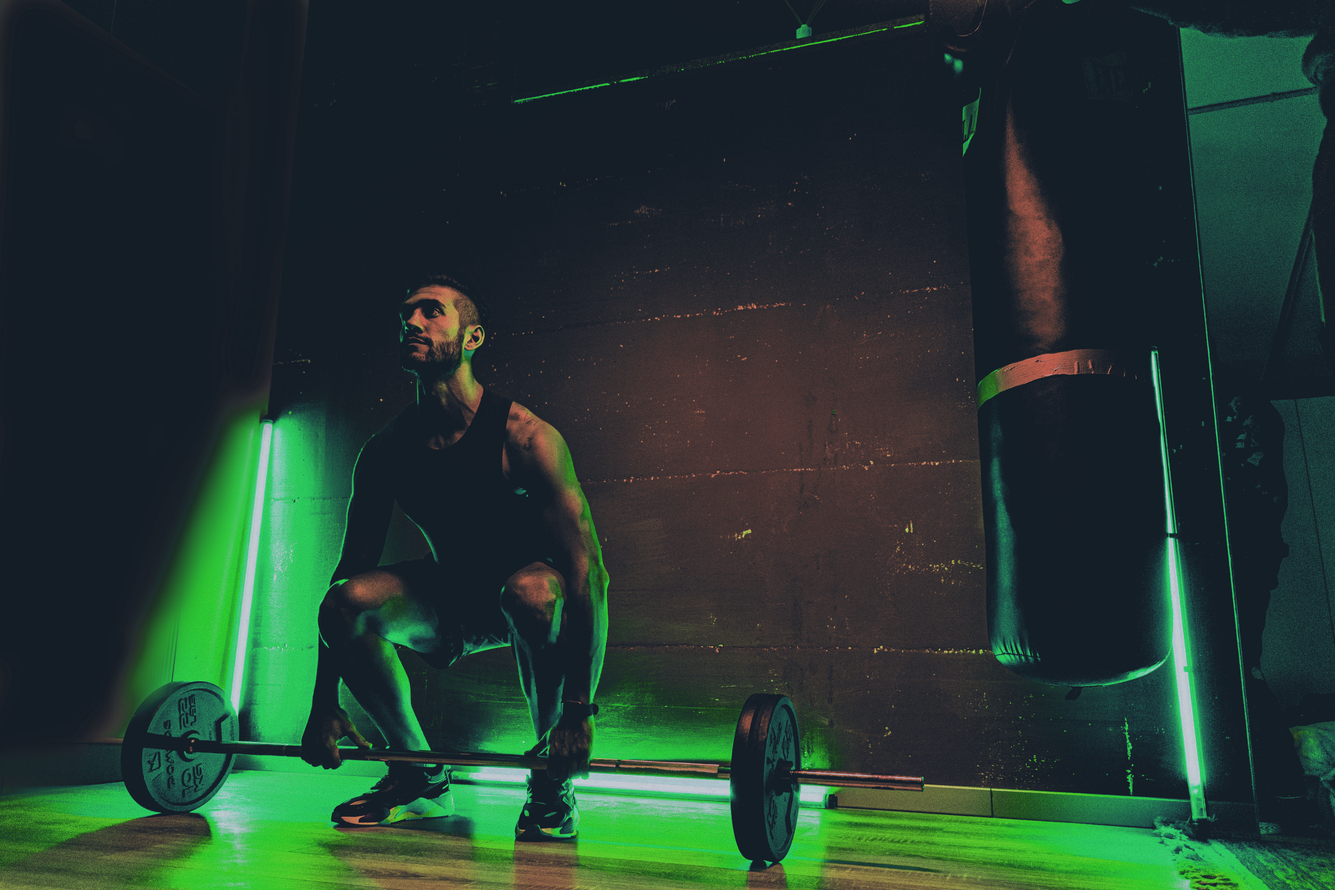
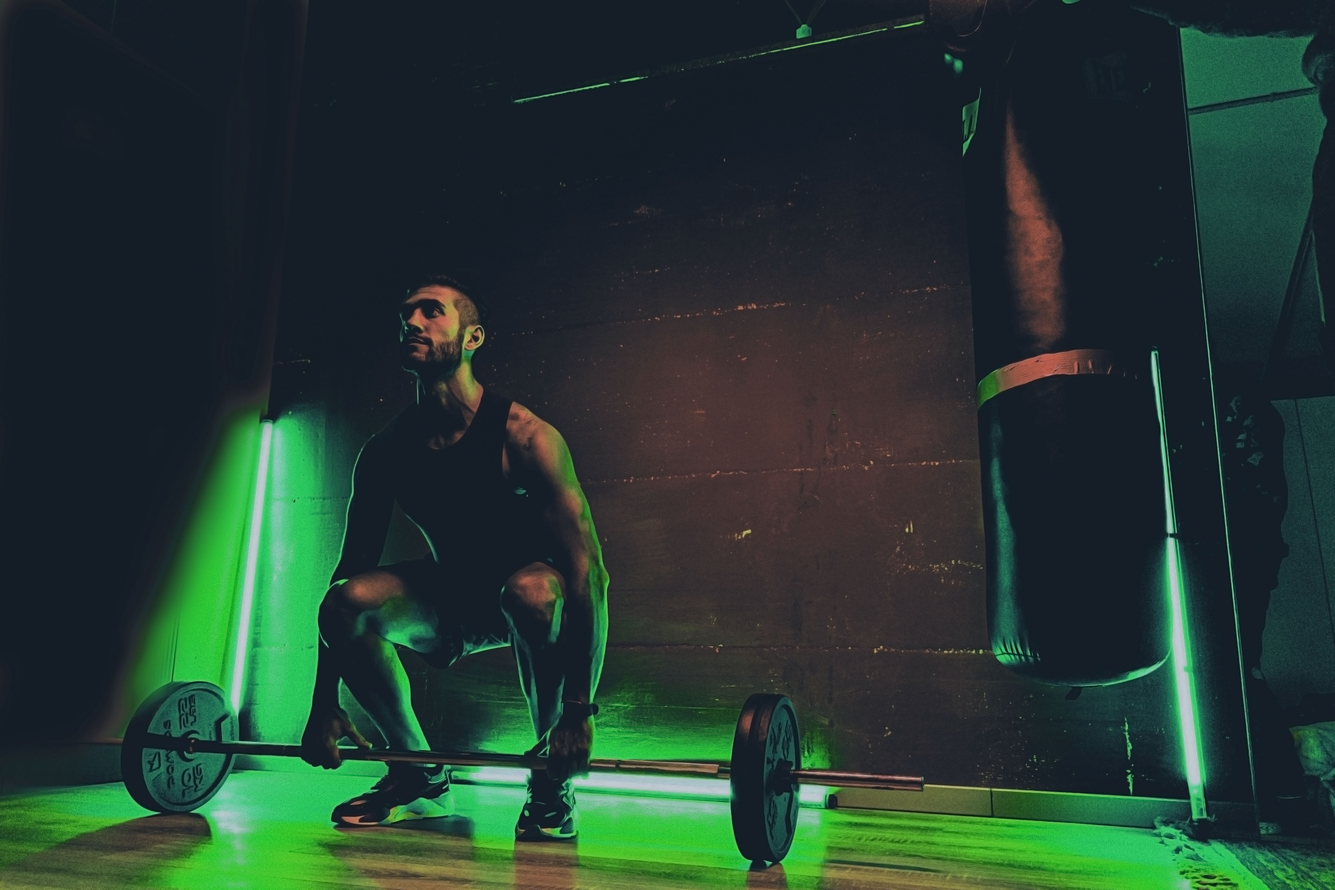
formatted search calories hover link and page

diff --git a/client/src/pages/SearchCalories.js b/client/src/pages/SearchCalories.js
@@ -129,10 +129,11 @@ const SearchCalories = () => {
 //   };
 
   return (
-    <>
-      <Jumbotron fluid className='text-light bg-dark'>
-        <Container>
-          <h1>Caloric Expenditure</h1>
+    
+      <div className='container-background centered'>
+        <div>
+        <Container fluid>
+          <span className='exercise-search-font'>CALORIC EXPENDITURE</span>
           <DropdownButton id="dropdown-basic-button" title="SELECT ACTIVITY">
             {exerciseList.map((searchInput) => {
               return (
@@ -152,14 +153,15 @@ const SearchCalories = () => {
             })}
           </DropdownButton>
         </Container>
-      </Jumbotron>
+      </div>
+      
 
-      <Container>
-        <h2>
+      <Container as='container'>
+        <span className='white-font'>
           {searchedCalories.length
             ? `Viewing ${searchedCalories.length} results:`
-            : 'Search for a book to begin'}
-        </h2>
+            : 'Search for an activity to begin'}
+        </span>
         <CardColumns>
           {searchedCalories.map((book) => {
             return (
@@ -185,7 +187,7 @@ const SearchCalories = () => {
           })}
         </CardColumns>
       </Container>
-    </>
+    </div>
   );
 };
 

diff --git a/client/src/index.css b/client/src/index.css
@@ -3,7 +3,7 @@
 
 
 body {
-  background-image: url('./img/deadlift.jpg');
+  background-image: url('./img/fitness-black-green.jpg');
   background-size:cover;
   background-attachment: fixed;
   font-family: 'Lato', sans-serif; 
@@ -80,10 +80,10 @@ footer {
   display:block;
   border: 4px solid white;
   color: white;
-  font-size: 6vh;
+  font-size: 5vw;
   font-family: 'Roboto Condensed';
   text-align: center;
-  width: 90%;
+  width: 70%;
   margin-top: 25vh;
   background-color:rgba(255, 255, 255, 0.188);
 
@@ -96,6 +96,12 @@ footer {
   color: white;
   font-style: italic;
   font-weight: 400;
+}
+
+.container {
+  margin:0px;
+  justify-content:center;
+  width:100%;
 }
 
 .container-background {
@@ -143,7 +149,7 @@ footer {
 
 
 .dropdown-item {
-  padding: 0vw 5.7vw;
+  padding: 0vw 8.2vw;
   
 }
 

diff --git a/client/src/components/Navbar.js b/client/src/components/Navbar.js
@@ -23,7 +23,7 @@ const AppNavbar = () => {
               <Nav.Link as={Link} to='/search' className='hover-underline-animation'>
                     Search
                   </Nav.Link>
-                  <Nav.Link as={Link} to='/calories'>
+                  <Nav.Link as={Link} to='/calories' className='hover-underline-animation'>
                     Calories
                   </Nav.Link>
               {/* if user is logged in show saved books and logout */}

diff --git a/client/src/pages/SearchExercises.js b/client/src/pages/SearchExercises.js
@@ -186,7 +186,7 @@ const SearchExercises = () => {
         </Container>
       </div>
 
-      <Container>
+      <Container as='container'>
         <span className='white-font'>
           {searchedExercises.length
             ? `Viewing ${searchedExercises.length} results:`

diff --git a/client/src/pages/Home.js b/client/src/pages/Home.js
@@ -6,7 +6,7 @@ const Home = () => {
   return (
     <>
     <Navbar />
-    <Container>
+    <Container as='container'>
       <Col>
         <span className="row justify-content-center">
           <div className="slogan justify-content-center">
